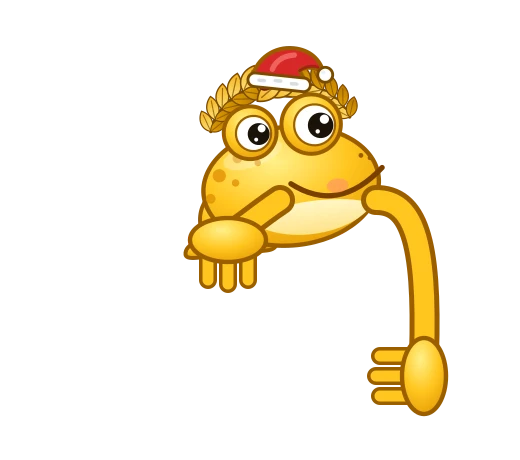
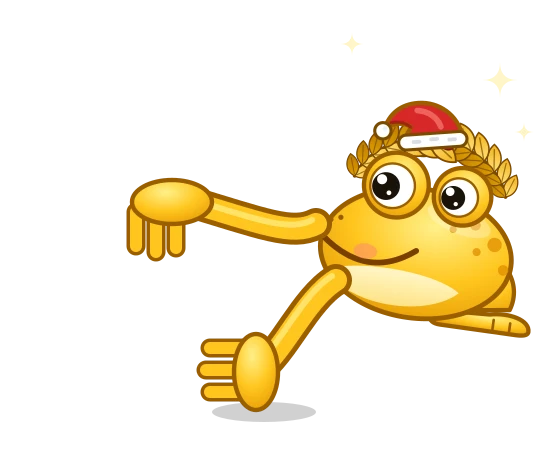
feat: redraw corner mascot standing beside the popup

Changed region(s): [[0.2154, 0.0913, 0.9538, 0.9435], [0.8615, 0.1522, 0.9231, 0.1826], [0.9231, 0.2739, 0.9538, 0.3043]]

diff --git a/backend/scripts/gen-popup-mascot.ts b/backend/scripts/gen-popup-mascot.ts
@@ -1,6 +1,6 @@
 /**
  * Dựng ảnh Cóc Pass đội nón Noel đu bám vào góc trên bên phải của popup: frontend/public/promo/mascot-corner.webp (nền trong suốt).
- * Điểm góc của popup nằm ở CORNER (toạ độ ảnh 260x230): tay trái bám mép trên (y = CORNER.y), tay phải bám mép phải (x = CORNER.x).
+ * Điểm góc của popup nằm ở CORNER (toạ độ ảnh 280x230): tay trên bám mép trên (y = CORNER.y), tay dưới bám mép phải (x = CORNER.x).
  * Popup đặt ảnh theo hai số này nên đổi CORNER thì phải đổi cả nơi đặt ảnh.
  * Chạy lại:  npx tsx scripts/gen-popup-mascot.ts
  */
@@ -10,30 +10,34 @@ import sharp from "sharp";
 import { MASCOT_SVG } from "../../frontend/src/shared/ui/mascot-art";
 import { santaHat } from "../../frontend/src/shared/ui/santa-hat";
 
-export const W = 260;
+export const W = 280;
 export const H = 230;
-export const CORNER = { x: 204, y: 126 };
+export const CORNER = { x: 120, y: 110 };
 const OUT = path.resolve(__dirname, "../../frontend/public/promo/mascot-corner.webp");
 const BROWN = "#9a5f00";
 
 // Thân + đầu của mascot (bỏ bảng danh hiệu và hai tay đỡ bảng)
 const head = MASCOT_SVG.slice(MASCOT_SVG.indexOf("<defs>"), MASCOT_SVG.indexOf('<g><rect x="64" y="68"'));
 
-const arm = (d: string) => `<path d="${d}" fill="none" stroke="${BROWN}" stroke-width="15" stroke-linecap="round"/><path d="${d}" fill="none" stroke="#ffc61f" stroke-width="10" stroke-linecap="round"/>`;
-const finger = (x1: number, y1: number, x2: number, y2: number) => `<path d="M${x1} ${y1}L${x2} ${y2}" stroke="${BROWN}" stroke-width="9" stroke-linecap="round"/><path d="M${x1} ${y1}L${x2} ${y2}" stroke="#ffc61f" stroke-width="5.5" stroke-linecap="round"/>`;
+const arm = (d: string) => `<path d="${d}" fill="none" stroke="${BROWN}" stroke-width="16" stroke-linecap="round"/><path d="${d}" fill="none" stroke="#ffc61f" stroke-width="11" stroke-linecap="round"/><path d="${d}" fill="none" stroke="#fff08a" stroke-width="3" stroke-linecap="round" opacity=".7" transform="translate(-2 -2)"/>`;
+const finger = (x1: number, y1: number, x2: number, y2: number) => `<path d="M${x1} ${y1}L${x2} ${y2}" stroke="${BROWN}" stroke-width="9.5" stroke-linecap="round"/><path d="M${x1} ${y1}L${x2} ${y2}" stroke="#ffc61f" stroke-width="6" stroke-linecap="round"/>`;
+const sparkle = (x: number, y: number, r: number) => `<path d="M${x} ${y - r}Q${x} ${y} ${x + r} ${y}Q${x} ${y} ${x} ${y + r}Q${x} ${y} ${x - r} ${y}Q${x} ${y} ${x} ${y - r}Z" fill="#fff6c8"/>`;
 
 const { x: cx, y: cy } = CORNER;
+// Cóc đứng bên cạnh phải của popup, quay mặt sang trái (lật ngang), nghiêng nhẹ; một tay vắt qua góc bám mép trên, một tay bám mép phải
 const svg = `<svg xmlns="http://www.w3.org/2000/svg" width="${W * 2}" height="${H * 2}" viewBox="0 0 ${W} ${H}">
   <defs></defs>
-  <g transform="translate(84 22) rotate(-6 66 50) scale(1.1)">${head}${santaHat(53, 19, 0.62, 12)}</g>
-  ${arm(`M140 100C128 108 122 114 ${cx - 90} ${cy - 8}`)}
-  ${arm(`M188 100C206 100 ${cx + 10} 118 ${cx + 8} ${cy + 52}`)}
-  <!-- tay trái ôm mép trên: ngón rủ xuống mặt trước -->
-  <g>${finger(cx - 100, cy - 2, cx - 100, cy + 14)}${finger(cx - 90, cy - 2, cx - 90, cy + 16)}${finger(cx - 80, cy - 2, cx - 80, cy + 14)}
-  <ellipse cx="${cx - 90}" cy="${cy - 6}" rx="19" ry="11" fill="url(#gold)" stroke="${BROWN}" stroke-width="2.2"/></g>
-  <!-- tay phải ôm mép phải: ngón vòng sang mặt trước -->
-  <g>${finger(cx + 2, cy + 52, cx - 14, cy + 52)}${finger(cx + 2, cy + 62, cx - 16, cy + 62)}${finger(cx + 2, cy + 72, cx - 14, cy + 72)}
-  <ellipse cx="${cx + 8}" cy="${cy + 62}" rx="11" ry="19" fill="url(#gold)" stroke="${BROWN}" stroke-width="2.2"/></g>
+  <ellipse cx="${cx + 12}" cy="${cy + 96}" rx="26" ry="5" fill="#000" opacity=".18"/>
+  ${sparkle(250, 40, 9)}${sparkle(262, 66, 5)}${sparkle(176, 22, 6)}
+  <g transform="translate(196 108) rotate(8) scale(-1.2 1.2) translate(-66 -50)">${head}${santaHat(53, 19, 0.62, 12)}</g>
+  ${arm(`M158 112C146 118 132 112 ${cx - 28} ${cy - 10}`)}
+  ${arm(`M168 140C152 150 ${cx + 22} ${cy + 66} ${cx + 8} ${cy + 76}`)}
+  <!-- tay trên ôm mép trên: ngón rủ xuống mặt trước -->
+  <g>${finger(cx - 52, cy - 4, cx - 52, cy + 13)}${finger(cx - 42, cy - 4, cx - 42, cy + 16)}${finger(cx - 32, cy - 4, cx - 32, cy + 14)}
+  <ellipse cx="${cx - 34}" cy="${cy - 9}" rx="20" ry="11" fill="url(#gold)" stroke="${BROWN}" stroke-width="2.2"/></g>
+  <!-- tay dưới bám mép phải: ngón vòng sang mặt trước -->
+  <g>${finger(cx + 2, cy + 64, cx - 15, cy + 64)}${finger(cx + 2, cy + 75, cx - 17, cy + 75)}${finger(cx + 2, cy + 86, cx - 15, cy + 86)}
+  <ellipse cx="${cx + 8}" cy="${cy + 76}" rx="11" ry="19" fill="url(#gold)" stroke="${BROWN}" stroke-width="2.2"/></g>
 </svg>`;
 
 void (async () => {
